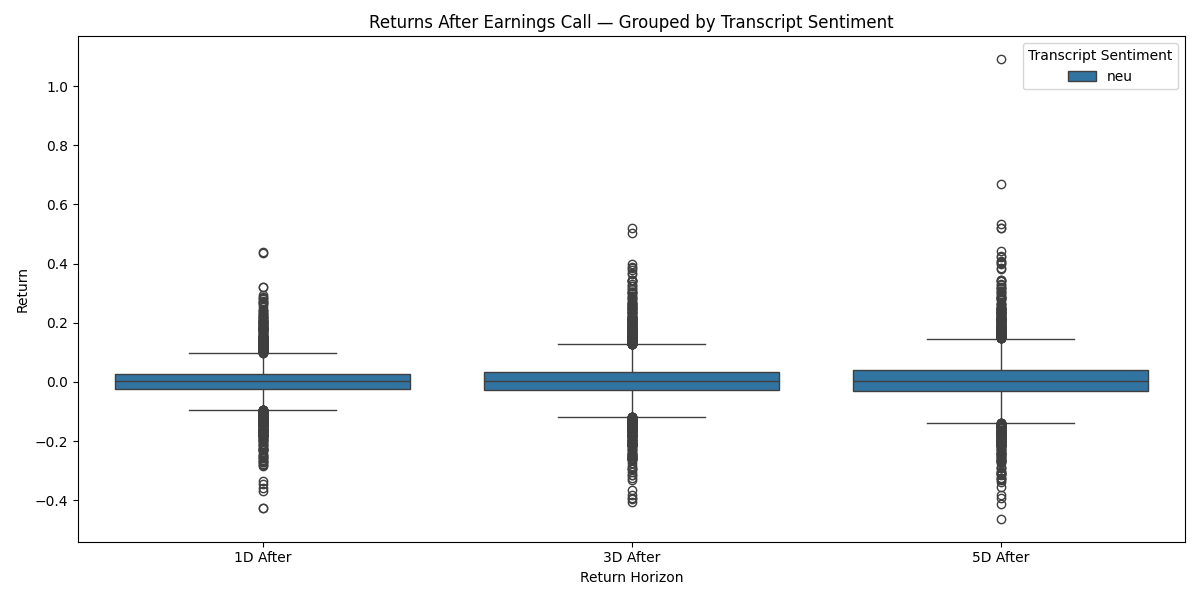
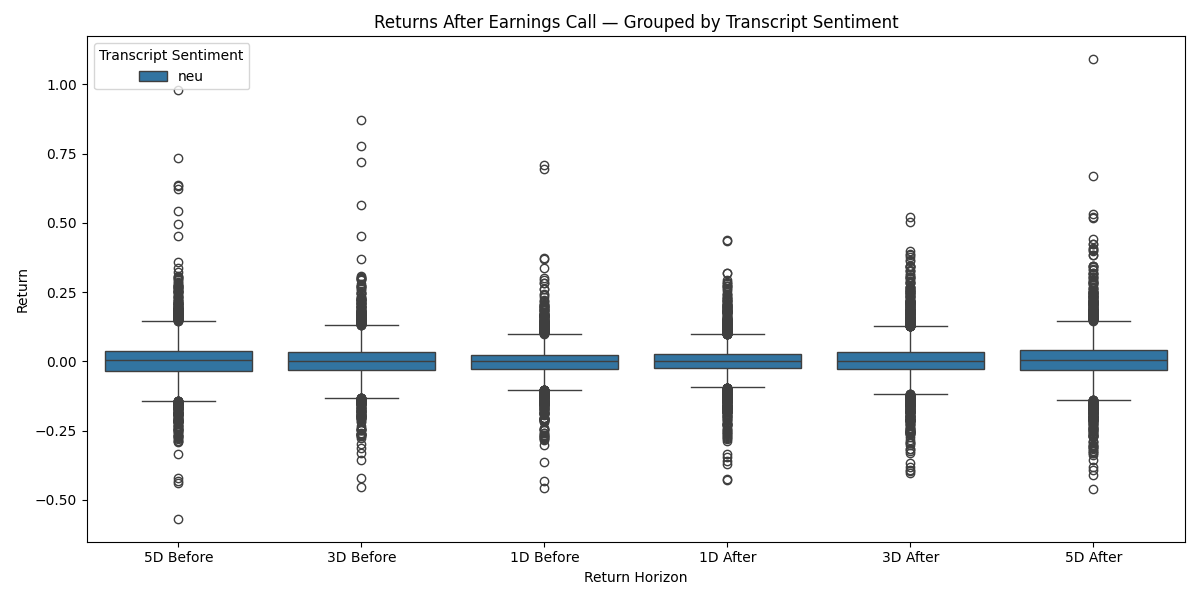
Updated VADER boxplots.

diff --git a/visualization/VADER_boxplot.py b/visualization/VADER_boxplot.py
@@ -19,6 +19,9 @@ sections = {
 valid_labels = ["pos", "neg", "neu"]
 
 ret_cols = {
+    "ret_5d_before": "5D Before",
+    "ret_3d_before": "3D Before",
+    "ret_1d_before": "1D Before",
     "ret_1d_after": "1D After",
     "ret_3d_after": "3D After",
     "ret_5d_after": "5D After"
